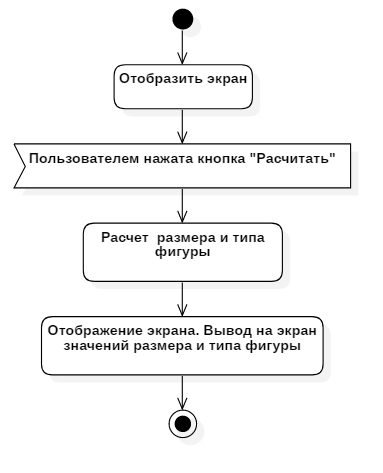
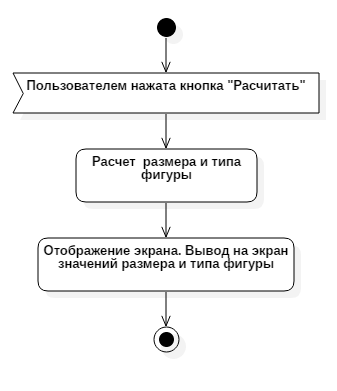
Flows of events were added

Changed region(s): [[0.0297, 0.0, 0.9496, 0.9514]]

diff --git a/docs/System_design.md b/docs/System_design.md
@@ -46,70 +46,112 @@
 ![use_case_diagram](diagrams/use_case_diagram/use_case_diagram.PNG)
 
 ## 2\. Варианты использования  <a name = "2"></a><br>
+Сценарии выполнения вариантов использования описаны с помощью потоков событий и отображены в виде диаграмм активности.
 ### 2.1\. Выбор пола <a name = "2.1"></a>
-<b>Описание:</b> .
-<b>Предусловие:</b> .<br>
+<b> Описание: </b> Вариант использования "Выбор пола" позволяет пользователю выбрать пол для дальнейшего расчета.<br>
 #### 2.1.1\. Поток событий <a name = "2.1.1"></a>
-1. ;<br>
-2. 4;<br>
-3. ;<br>
-4. Конец. <br>
+1. Пользователь нажал кнопку выбора пола;<br>
+2. Отображение параметров для ввода, согласно выбранному полу;<br>
+3. Конец.<br>
 
 #### 2.1.2\. Диаграмма активности <a name = "2.1.2"></a>
 ![choose_gender](diagrams/activity_diagrams/choose_gender.PNG)
 
-###2.2\. Изменение параметров <a name = "2.2"></a>
-####2.2.1\. Изменение параметра "Обхват шеи"<a name = "2.2.1"></a>
-#####2.2.1.1\. Увеличение параметра "Обхват шеи" <a name = "2.2.1.1"></a>
+### 2.2\. Изменение параметров <a name = "2.2"></a>
+В данном пункте описываются сценарии выполнение вариантов использования для различных параметров и способов изменения.
 
-#######2.2.1.1.1\. Поток событий <a name = "2.2.1.1.1"></a>
-#######2.2.1.1.2\. Диаграмма активности <a name = "2.2.1.1.2"></a>
+#### 2.2.1\. Изменение параметра "Обхват шеи"<a name = "2.2.1"></a>
+##### 2.2.1.1\. Увеличение параметра "Обхват шеи" <a name = "2.2.1.1"></a>
+<b> Описание: </b> Вариант использования "Увеличение параметра "Обхват шеи"" позволяет пользователю увеличить значение параметра "Обхват шеи".<br>
+####### 2.2.1.1.1\. Поток событий <a name = "2.2.1.1.1"></a>
+1. Пользователь нажал кнопку "+" для параметра "Обхват шеи";<br>
+2. Проверить, является ли текущее значение параметра максимальным. Если да, то переход к шагу 4, иначе к шагу 3;<br>
+3. Увеличить текущее значение параметра и отобразить новое значение на экран;<br>
+4. Конец.<br>
+####### 2.2.1.1.2\. Диаграмма активности <a name = "2.2.1.1.2"></a>
 ![increase_neck](diagrams/activity_diagrams/increase_neck.PNG)
 
-#####2.2.1.2\. Уменьшение параметра "Обхват шеи" <a name = "2.2.1.2"></a>
-
-#######2.2.1.2.1\. Поток событий <a name = "2.2.1.2.1"></a>
-#######2.2.1.2.2\. Диаграмма активности <a name = "2.2.1.2.2"></a>
+##### 2.2.1.2\. Уменьшение параметра "Обхват шеи" <a name = "2.2.1.2"></a>
+<b> Описание: </b> Вариант использования "Уменьшение параметра "Обхват шеи"" позволяет пользователю уменьшить значение параметра "Обхват шеи".<br>
+####### 2.2.1.2.1\. Поток событий <a name = "2.2.1.2.1"></a>
+1. Пользователь нажал кнопку "-" для параметра "Обхват шеи";<br>
+2. Проверить, является ли текущее значение параметра минимальным. Если да, то переход к шагу 4, иначе к шагу 3;<br>
+3. Уменьшить текущее значение параметра и отобразить новое значение на экран;<br>
+4. Конец.<br>
+####### 2.2.1.2.2\. Диаграмма активности <a name = "2.2.1.2.2"></a>
 ![reduce_neck](diagrams/activity_diagrams/reduce_neck.PNG)
 
-####2.2.2\. Изменение параметра "Обхват груди"<a name = "2.2.2"></a>
-#####2.2.2.1\. Увеличение параметра "Обхват груди" <a name = "2.2.2.1"></a>
-#######2.2.2.1.1\. Поток событий <a name = "2.2.2.1.1"></a>
-#######2.2.2.1.2\. Диаграмма активности <a name = "2.2.2.1.2"></a>
+#### 2.2.2\. Изменение параметра "Обхват груди"<a name = "2.2.2"></a>
+##### 2.2.2.1\. Увеличение параметра "Обхват груди" <a name = "2.2.2.1"></a>
+<b> Описание: </b> Вариант использования "Увеличение параметра "Обхват груди"" позволяет пользователю увеличить значение параметра "Обхват груди".<br>
+####### 2.2.2.1.1\. Поток событий <a name = "2.2.2.1.1"></a>
+1. Пользователь нажал кнопку "+" для параметра "Обхват груди";<br>
+2. Проверить, является ли текущее значение параметра максимальным. Если да, то переход к шагу 4, иначе к шагу 3;<br>
+3. Увеличить текущее значение параметра и отобразить новое значение на экран;<br>
+4. Конец.<br>
+####### 2.2.2.1.2\. Диаграмма активности <a name = "2.2.2.1.2"></a>
 ![increase_chest](diagrams/activity_diagrams/increase_chest.PNG)
 
-#####2.2.2.2\. Уменьшение параметра "Обхват груди" <a name = "2.2.2.2"></a>
-#######2.2.2.2.1\. Поток событий <a name = "2.2.2.2.1"></a>
-#######2.2.2.2.2\. Диаграмма активности <a name = "2.2.2.2.2"></a>
+##### 2.2.2.2\. Уменьшение параметра "Обхват груди" <a name = "2.2.2.2"></a>
+<b> Описание: </b> Вариант использования "Уменьшение параметра "Обхват груди"" позволяет пользователю уменьшить значение параметра "Обхват груди".<br>
+####### 2.2.2.2.1\. Поток событий <a name = "2.2.2.2.1"></a>
+1. Пользователь нажал кнопку "-" для параметра "Обхват груди";<br>
+2. Проверить, является ли текущее значение параметра минимальным. Если да, то переход к шагу 4, иначе к шагу 3;<br>
+3. Уменьшить текущее значение параметра и отобразить новое значение на экран;<br>
+4. Конец.<br>
+####### 2.2.2.2.2\. Диаграмма активности <a name = "2.2.2.2.2"></a>
 ![reduce_chest](diagrams/activity_diagrams/reduce_chest.PNG)
 
-####2.2.3\. Изменение параметра "Обхват талии"<a name = "2.2.3"></a>
+#### 2.2.3\. Изменение параметра "Обхват талии"<a name = "2.2.3"></a>
 
-#####2.2.3.1\. Увеличение параметра "Обхват талии" <a name = "2.2.3.1"></a>
-#######2.2.3.1.1\. Поток событий <a name = "2.2.3.1.1"></a>
-#######2.2.3.1.2\. Диаграмма активности <a name = "2.2.3.1.2"></a>
+##### 2.2.3.1\. Увеличение параметра "Обхват талии" <a name = "2.2.3.1"></a>
+<b> Описание: </b> Вариант использования "Увеличение параметра "Обхват талии"" позволяет пользователю увеличить значение параметра "Обхват талии".<br>
+####### 2.2.3.1.1\. Поток событий <a name = "2.2.3.1.1"></a>
+1. Пользователь нажал кнопку "+" для параметра "Обхват талии";<br>
+2. Проверить, является ли текущее значение параметра максимальным. Если да, то переход к шагу 4, иначе к шагу 3;<br>
+3. Увеличить текущее значение параметра и отобразить новое значение на экран;<br>
+4. Конец.<br>
+####### 2.2.3.1.2\. Диаграмма активности <a name = "2.2.3.1.2"></a>
 ![increase_waist](diagrams/activity_diagrams/increase_waist.PNG)
 
-#####2.2.3.2\. Уменьшение параметра "Обхват талии" <a name = "2.2.3.2"></a>
-
-#######2.2.3.2.1\. Поток событий <a name = "2.2.3.2.1"></a>
-#######2.2.3.2.2\. Диаграмма активности <a name = "2.2.3.2.2"></a>
+##### 2.2.3.2\. Уменьшение параметра "Обхват талии" <a name = "2.2.3.2"></a>
+<b> Описание: </b> Вариант использования "Уменьшение параметра "Обхват талии"" позволяет пользователю уменьшить значение параметра "Обхват талии".<br>
+####### 2.2.3.2.1\. Поток событий <a name = "2.2.3.2.1"></a>
+1. Пользователь нажал кнопку "-" для параметра "Обхват талии";<br>
+2. Проверить, является ли текущее значение параметра минимальным. Если да, то переход к шагу 4, иначе к шагу 3;<br>
+3. Уменьшить текущее значение параметра и отобразить новое значение на экран;<br>
+4. Конец.<br>
+####### 2.2.3.2.2\. Диаграмма активности <a name = "2.2.3.2.2"></a>
 ![reduce_waist](diagrams/activity_diagrams/reduce_waist.PNG)
 
 
-####2.2.4\. Изменение параметра "Обхват бедер"<a name = "2.2.4"></a>
-#####2.2.4.1\. Увеличение параметра "Обхват бедер" <a name = "2.2.4.1"></a>
-#######2.2.4.1.1\. Поток событий <a name = "2.2.4.1.1"></a>
-#######2.2.4.1.2\. Диаграмма активности <a name = "2.2.4.2.2"></a>
+#### 2.2.4\. Изменение параметра "Обхват бедер"<a name = "2.2.4"></a>
+##### 2.2.4.1\. Увеличение параметра "Обхват бедер" <a name = "2.2.4.1"></a>
+<b> Описание: </b> Вариант использования "Увеличение параметра "Обхват бедер"" позволяет пользователю увеличить значение параметра "Обхват бедер".<br>
+####### 2.2.4.1.1\. Поток событий <a name = "2.2.4.1.1"></a>
+1. Пользователь нажал кнопку "+" для параметра "Обхват бедер";<br>
+2. Проверить, является ли текущее значение параметра максимальным. Если да, то переход к шагу 4, иначе к шагу 3;<br>
+3. Увеличить текущее значение параметра и отобразить новое значение на экран;<br>
+4. Конец.<br>
+####### 2.2.4.1.2\. Диаграмма активности <a name = "2.2.4.2.2"></a>
 ![increase_hips](diagrams/activity_diagrams/increase_hips.PNG)
-#####2.2.4.2\. Уменьшение параметра "Обхват бедер" <a name = "2.2.4.2"></a>
-#######2.2.4.2.1\. Поток событий <a name = "2.2.4.2.1"></a>
-#######2.2.4.2.2\. Диаграмма активности <a name = "2.2.4.2.2"></a>
+##### 2.2.4.2\. Уменьшение параметра "Обхват бедер" <a name = "2.2.4.2"></a>
+<b> Описание: </b> Вариант использования "Уменьшение параметра "Обхват бедер"" позволяет пользователю уменьшить значение параметра "Обхват бедер".<br>
+####### 2.2.4.2.1\. Поток событий <a name = "2.2.4.2.1"></a>
+1. Пользователь нажал кнопку "-" для параметра "Обхват бедер";<br>
+2. Проверить, является ли текущее значение параметра минимальным. Если да, то переход к шагу 4, иначе к шагу 3;<br>
+3. Уменьшить текущее значение параметра и отобразить новое значение на экран;<br>
+4. Конец.<br>
+####### 2.2.4.2.2\. Диаграмма активности <a name = "2.2.4.2.2"></a>
 ![reduce_hips](diagrams/activity_diagrams/reduce_hips.PNG)
 
 ### 2.3\. Расчет парамеров <a name = "2.3"></a>
-
+<b> Описание: </b> Вариант использования "Расчет парамеров" отображает на экран  результат расчет размера и типа фигуры на основе параметров, введенных пользователем.<br>
 #### 2.3.1\. Поток событий <a name = "2.1.1"></a>
+1. Пользователь нажал кнопку "Расчитать";<br>
+2. Получить текущие значения параметров и произвести расчет;<br>
+3. Отобразить экран с результатом расчета;<br>
+4. Конец.<br>
 
 
 #### 2.3.2\. Диаграмма активности <a name = "2.1.2"></a>
